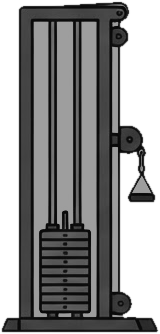
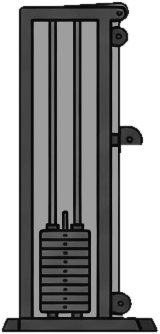
Beta: Kabelturm gespiegelt, eigener Griff entfernt, Seil zur Hand
Die Rolle des Kabelturms zeigt jetzt zum Faultier, der eingezeichnete
Griff am Turm ist ausgeschnitten, und ein Seil läuft von der oberen
Rolle mitbewegt zum Griff in der Hand. Requisiten lassen sich spiegeln
und als Seil (Linie zum Punkt) zeichnen. Beta-Cache v36.

Claude-Session: https://claude.ai/code/session_017ZxJ7zC71p5pzMfEXr2XL4

Changed region(s): [[0.75, 0.4192, 0.9688, 0.6287]]

diff --git a/beta/sloth-rig.js b/beta/sloth-rig.js
@@ -84,7 +84,8 @@ const STAND_LEGS = { thigh_l: 100, calf_l: 91, thigh_r: 80, calf_r: 89 };
    Vorne: pin auch 'hand_l', 'hand_r', 'foot_l', 'foot_r'.
    props: Geräte [{ img, at: Punkt ('grip', 'fgrip', 'hand_l', …) oder [x, y]
    fest, k: Massstab, r: Drehung, a: Ankerpunkt im Blatt, turn: dreht mit
-   dem Rumpf, layer: 'back' | 'mid' | 'front' }].
+   dem Rumpf, flip: gespiegelt, layer: 'back' | 'mid' | 'front' } oder
+   { line: [x, y], to: Punkt } für ein Seil vom festen Punkt zur Hand].
    Seitenansicht: Winkel uarm/farm/hand/thigh/calf gelten für die vordere
    Seite, f… (fuarm, ffarm, …) für die hintere (sonst gleich wie vorne);
    grip: 'fist' (Faust) / 'flat' (flach am Boden) statt offener Hand;
@@ -428,10 +429,12 @@ const SLOTH_POSES = {
   },
   tricepsext: {
     view: 'side', pin: 'ankle', dur: 2.4, floor: 46, grip: 'fist', label: 'Trizepsdrücken am Kabel',
-    props: [{ img: 'cable', at: [360, 46], a: [171, 838], k: 2.7, layer: 'back' }, { img: 'rope', at: 'grip', a: [568, 196], k: 1.2 }],
+    props: [{ img: 'cable', at: [400, 46], a: [171, 838], k: 2.7, flip: true, layer: 'back' },
+      { line: [287, -764], to: 'grip' }, { img: 'rope', at: 'grip', a: [568, 196], k: 1.2 }],
     a: { torso: -92, uarm: 100, farm: -30, hand: -30, thigh: 84, calf: 92 },
     b: { torso: -92, uarm: 100, farm: 84, hand: 84, thigh: 84, calf: 92 },
   },
+
   dbflyes: {
     view: 'side', pin: 'hip', dur: 3, floor: 286, grip: 'fist', label: 'Kurzhantel-Fliegende',
     props: [{ img: 'bench', at: [-150, 108], a: [442, 422], k: 2.2, layer: 'back' }, { img: 'plate', at: 'fgrip', k: 0.72, layer: 'mid' }, { img: 'plate', at: 'grip', k: 0.72 }],
@@ -577,9 +580,14 @@ function slothRigBuild(pose) {
     for (const k in q) q[k] = { img: q[k].img, P: sub(q[k].P, pin), r: q[k].r, p: q[k].p, k: q[k].k };
     // Requisiten: an einem Punkt der Figur (z. B. 'grip') oder fest im Bild ([x, y] relativ zum festen Punkt)
     (pose.props || []).forEach((pr, i) => {
-      const b = SLOTH_PARTS['eq_' + pr.img], p = pr.a || [(b[0] + b[2]) / 2, (b[1] + b[3]) / 2];
-      const P = Array.isArray(pr.at) ? pr.at : sub(pts[pr.at], pin);
-      q['prop' + i] = { img: 'eq_' + pr.img, P, r: (pr.r || 0) + (pr.turn ? s.torso : 0), p, k: pr.k || 1 };
+      const pt = (at) => (Array.isArray(at) ? at : sub(pts[at], pin));
+      if (pr.line) { // Seil vom festen Punkt line zum Punkt to (Rechteck, in der Länge gestreckt)
+        const A0 = pr.line, B = pt(pr.to), d = sub(B, A0);
+        q['prop' + i] = { line: true, P: A0, r: Math.atan2(d[1], d[0]) * 180 / Math.PI, p: [0, 0], k: [Math.hypot(d[0], d[1]), 1] };
+        return;
+      }
+      const b = SLOTH_PARTS['eq_' + pr.img], p = pr.a || [(b[0] + b[2]) / 2, (b[1] + b[3]) / 2], k = pr.k || 1;
+      q['prop' + i] = { img: 'eq_' + pr.img, P: pt(pr.at), r: (pr.r || 0) + (pr.turn ? s.torso : 0), p, k: pr.flip ? [-k, k] : k };
     });
     return q;
   };
@@ -615,10 +623,11 @@ function slothRigPrepare(name) {
   // Umriss über alle Stellungen -> viewBox
   let x0 = Infinity, y0 = Infinity, x1 = -Infinity, y1 = -Infinity;
   for (const f of frames) for (const key of order) {
-    const { img, P, r, p, k } = f[key], b = SLOTH_PARTS[img];
-    const c = Math.cos(r * Math.PI / 180) * k, s = Math.sin(r * Math.PI / 180) * k;
+    if (f[key].line) continue;
+    const { img, P, r, p, k } = f[key], b = SLOTH_PARTS[img], [kx, ky] = Array.isArray(k) ? k : [k, k];
+    const c = Math.cos(r * Math.PI / 180), s = Math.sin(r * Math.PI / 180);
     for (const [x, y] of [[b[0], b[1]], [b[2], b[1]], [b[0], b[3]], [b[2], b[3]]]) {
-      const dx = x - p[0], dy = y - p[1], wx = P[0] + dx * c - dy * s, wy = P[1] + dx * s + dy * c;
+      const dx = (x - p[0]) * kx, dy = (y - p[1]) * ky, wx = P[0] + dx * c - dy * s, wy = P[1] + dx * s + dy * c;
       x0 = Math.min(x0, wx); x1 = Math.max(x1, wx); y0 = Math.min(y0, wy); y1 = Math.max(y1, wy);
     }
   }
@@ -627,7 +636,7 @@ function slothRigPrepare(name) {
   const padX = (x1 - x0) * 0.02, padY = (y1 - y0) * 0.02;
   const box = [x0 - padX, y0 - padY, x1 - x0 + 2 * padX, y1 - y0 + 2 * padY].map((v) => Math.round(v));
   const n = (v) => +v.toFixed(1);
-  const sc = (e) => (e.k !== 1 ? ` scale(${e.k})` : '');
+  const sc = (e) => (Array.isArray(e.k) ? ` scale(${n(e.k[0])}, ${n(e.k[1])})` : e.k !== 1 ? ` scale(${e.k})` : '');
   // SVG-Attribut (Startstellung) und CSS-Transform (Keyframes) derselben Stellung
   const tfAttr = (e) => `translate(${n(e.P[0])} ${n(e.P[1])}) rotate(${+e.r.toFixed(2)})${sc(e)} translate(${n(-e.p[0])} ${n(-e.p[1])})`;
   const tfCss = (e) => `translate(${n(e.P[0])}px,${n(e.P[1])}px) rotate(${+e.r.toFixed(2)}deg)${sc(e)} translate(${n(-e.p[0])}px,${n(-e.p[1])}px)`;
@@ -640,7 +649,9 @@ function slothRigPrepare(name) {
   style.textContent = css.join('\n');
   document.head.appendChild(style);
   const parts = order.map((key) => {
-    const e = frames[0][key], b = SLOTH_PARTS[e.img];
+    const e = frames[0][key];
+    if (e.line) return `<g class="sp-${key}" transform="${tfAttr(e)}"><rect class="sloth-rig-cable" x="0" y="-3" width="1" height="6"/></g>`;
+    const b = SLOTH_PARTS[e.img];
     return `<g class="sp-${key}" transform="${tfAttr(e)}"><image href="${SLOTH_RIG_BASE}${e.img}.png" x="${b[0]}" y="${b[1]}" width="${b[2] - b[0]}" height="${b[3] - b[1]}"/></g>`;
   }).join('');
   let extra = '';

diff --git a/beta/styles.css b/beta/styles.css
@@ -1508,6 +1508,7 @@ body.has-fs-dock { padding-bottom: calc(62px + 210px + var(--safe-bottom)); }
 /* ---------- Faultier-Puppe (sloth-rig.js): SVG aus Einzelteilen ---------- */
 .sloth-rig { display: block; overflow: visible; }
 .sloth-rig-bar { fill: #3b4048; stroke: #0a0a0a; stroke-width: 5; }
+.sloth-rig-cable { fill: #6b7079; }
 .sloth-rig-shadow { fill: #000; opacity: .45; }
 .fb-stage-figure .sloth-img, .fb-phase-figure .sloth-img { max-height: 24vh; width: auto; }
 .timeline-thumb .sloth-img { width: 100%; height: 100%; }

diff --git a/beta/sw.js b/beta/sw.js
@@ -1,4 +1,4 @@
-const CACHE_NAME = 'pincho-beta-v35';
+const CACHE_NAME = 'pincho-beta-v36';
 const SHELL_ASSETS = [
   './', './index.html', './styles.css', './data.js', './firebase.js', './sloth-rig.js', './app.js',
   './manifest.json', '../assets/icon-512-any.png', '../assets/icon-192-any.png', '../assets/icon-512-transparent.png', '../assets/icon-512-maskable.png', '../assets/icon-beta-192-any.png', '../assets/icon-beta-512-maskable.png',

diff --git a/tools/sloth-rig/build.py b/tools/sloth-rig/build.py
@@ -47,6 +47,9 @@ EQUIP = {
     'kleinteile.jpg': {'abwheel': [2], 'jumprope': [1], 'ladder': [29], 'stepbox': [28], 'band': [63], 'mat': [62]},
 }
 
+# Bereiche, die aus einem Gerät entfernt werden (x0, y0, x1, y1 im Blatt): Griff am Kabelturm
+EQUIP_ERASE = {'cable': [(214, 652, 256, 714)]}
+
 # Geräte etwas dunkler, damit sie neben dem Faultier zurücktreten
 EQUIP_DARK = 0.62
 
@@ -66,8 +69,10 @@ def gray(rgb):
     return np.interp(lum, np.linspace(0, 1, len(CURVE)), CURVE) * 255
 
 
-def cut(rgb, lab, ids, g, out, fix=None, dark=1.0):
+def cut(rgb, lab, ids, g, out, fix=None, dark=1.0, erase=()):
     m = ndi.binary_fill_holes(np.isin(lab, ids))
+    for x0, y0, x1, y1 in erase:
+        m[y0:y1, x0:x1] = False
     g = g.astype(float)
     if fix:
         # Gelenk-Pfannen mit dem umgebenden Fell zumalen (normierte Unschärfe von aussen nach innen)
@@ -98,7 +103,7 @@ def main():
         rgb, lab = label(os.path.join(HERE, 'sheets', 'equipment', fname))
         g = gray(rgb)
         for name, ids in comps.items():
-            parts[f'eq_{name}'] = cut(rgb, lab, ids, g, os.path.join(OUT, f'eq_{name}.png'), dark=EQUIP_DARK)
+            parts[f'eq_{name}'] = cut(rgb, lab, ids, g, os.path.join(OUT, f'eq_{name}.png'), dark=EQUIP_DARK, erase=EQUIP_ERASE.get(name, ()))
     for fname, comps in SIDE:
         rgb, lab = label(os.path.join(HERE, 'sheets', fname))
         g = gray(rgb)
